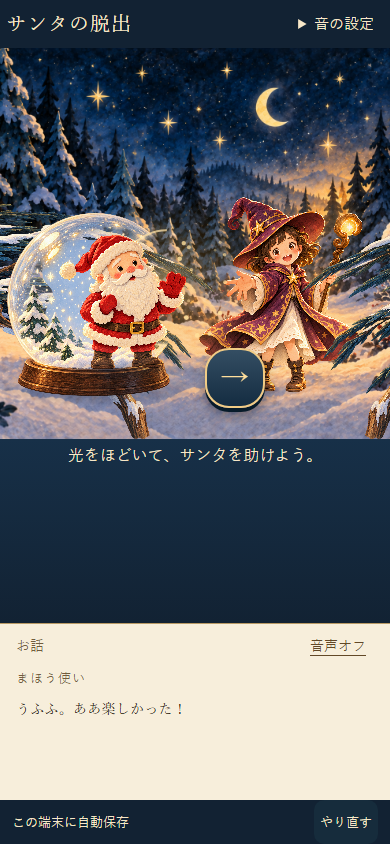
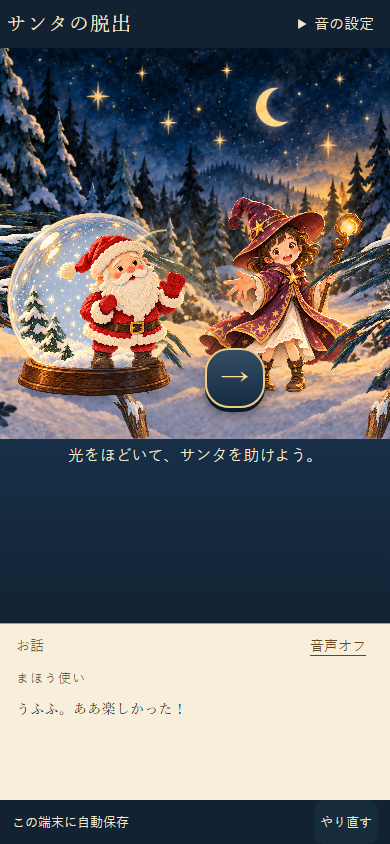
fix: use edited empty globe and brighten rescue magic

Changed region(s): [[0.0, 0.2464, 0.3692, 0.4621], [0.3077, 0.4313, 0.4308, 0.4621], [0.2769, 0.4005, 0.3077, 0.4313]]

diff --git a/prototype/rescue-art.js b/prototype/rescue-art.js
@@ -5,23 +5,10 @@ import { paintForestStage } from './forest-stage.js';
 import { smooth, clamp } from './witch-math.js';
 import { makeLayout, rescue } from './rescue-math.js';
 let rescuePromise;
-const loadRescueArt=()=>rescuePromise ||= Promise.all(['empty-globe','santa'].map(name=>loadImage(new URL('./assets/rescue/'+name+'.png',import.meta.url).href)));
+const loadRescueArt=()=>rescuePromise ||= Promise.all(['empty-globe-original-v2','santa'].map(name=>loadImage(new URL('./assets/rescue/'+name+'.png',import.meta.url).href)));
 export function createRescueArt(canvas,onLayout,onError) {
   const ctx=canvas.getContext('2d',{alpha:false}),plate=document.createElement('canvas'),brush=plate.getContext('2d');
-  const assets={};if(getForestArt())[assets.forest,assets.original]=getForestArt();if(getWitchArt())[assets.branch,assets.wizard]=getWitchArt();let disposed=false,view,layout,emptyGlobe,pulse=0;
-function composeEmptyGlobe(){
-  if(emptyGlobe||!assets.original||!assets.globe)return;
-  // Preserve the original glass, rim, trees and wooden base. Replace only the
-  // flattened Santa's interior region with the existing empty-globe material.
-  const w=assets.original.width,h=assets.original.height,patch=document.createElement('canvas'),mask=document.createElement('canvas');
-  emptyGlobe=document.createElement('canvas');for(const c of [emptyGlobe,patch,mask]){c.width=w;c.height=h;}
-  const m=mask.getContext('2d');m.scale(w,h);m.fillStyle='white';m.shadowColor='white';m.shadowBlur=6;m.beginPath();
-  m.moveTo(.38,.15);m.bezierCurveTo(.27,.14,.18,.26,.21,.36);m.bezierCurveTo(.24,.41,.28,.42,.26,.47);
-  m.bezierCurveTo(.19,.54,.22,.67,.32,.70);m.lineTo(.33,.82);m.bezierCurveTo(.44,.86,.66,.86,.77,.82);
-  m.lineTo(.78,.67);m.bezierCurveTo(.90,.61,.90,.37,.81,.32);m.bezierCurveTo(.76,.24,.66,.14,.56,.15);m.closePath();m.fill();
-  const p=patch.getContext('2d');p.drawImage(assets.globe,0,0,w,h);p.globalCompositeOperation='destination-in';p.drawImage(mask,0,0);
-  const out=emptyGlobe.getContext('2d');out.drawImage(assets.original,0,0);out.drawImage(patch,0,0);
-}
+  const assets={};if(getForestArt())[assets.forest,assets.original]=getForestArt();if(getWitchArt())[assets.branch,assets.wizard]=getWitchArt();let disposed=false,view,layout,pulse=0;
 function groundShadow(x, y, w, opacity) {
   ctx.save(); ctx.translate(x, y); ctx.scale(1, .18); ctx.globalAlpha = opacity;
   const gradient = ctx.createRadialGradient(0, 0, 0, 0, 0, w);
@@ -31,7 +18,7 @@ function groundShadow(x, y, w, opacity) {
 
 function globe(state) {
   const b = layout.globe;
-  const image=emptyGlobe||assets.globe;
+  const image=assets.globe;
   groundShadow(b.x + b.w * .52, b.y + b.h * .96, b.w * .60, .60);
   // The local aperture erases only the right side of the globe; its base stays in place.
   plate.width = image.width; plate.height = image.height;
@@ -67,7 +54,7 @@ function santa(state) {
 
 function glassFront(state) {
   const b = layout.globe, c = layout.circle;
-  const image=emptyGlobe||assets.globe;
+  const image=assets.globe;
   ctx.save(); ctx.globalAlpha = state.front;
   // Foreground snow covers the initial boots; it fades continuously before the boundary is crossed.
   ctx.drawImage(image, 0, image.height * .735, image.width, image.height * .10,
@@ -102,13 +89,33 @@ function magic(state) {
   ctx.restore();
 }
 
+function introGlow() {
+  const c=layout.circle;
+  ctx.save();ctx.translate(c.cx,c.cy);ctx.scale(1,c.ry/c.rx);ctx.globalCompositeOperation='screen';
+  // A single bright white-gold bloom across the whole globe, with a luminous rim.
+  const radius=c.rx*(1.55+pulse*.15),bloom=ctx.createRadialGradient(0,0,0,0,0,radius);
+  bloom.addColorStop(0,`rgba(255,250,220,${pulse})`);bloom.addColorStop(.5,`rgba(255,221,140,${pulse*.85})`);
+  bloom.addColorStop(.7,`rgba(255,191,75,${pulse*.65})`);bloom.addColorStop(1,'rgba(255,180,55,0)');
+  ctx.fillStyle=bloom;ctx.fillRect(-radius,-radius,radius*2,radius*2);
+  ctx.fillStyle=`rgba(255,252,230,${pulse*.92})`;ctx.beginPath();ctx.arc(0,0,c.rx,0,Math.PI*2);ctx.fill();
+  ctx.strokeStyle=`rgba(255,244,182,${pulse})`;ctx.lineWidth=Math.max(2,c.rx*.025);ctx.shadowColor='#ffc454';ctx.shadowBlur=c.rx*.22;
+  ctx.beginPath();ctx.arc(0,0,c.rx*(1.02+pulse*.04),0,Math.PI*2);ctx.stroke();
+  ctx.fillStyle=`rgba(255,251,214,${pulse})`;
+  for(let i=0;i<12;i++){
+    const angle=i*Math.PI/6+.14,r=c.rx*(1.13+(i%3)*.07+pulse*.08),x=Math.cos(angle)*r,y=Math.sin(angle)*r;
+    const size=c.rx*(i%2?.028:.047)*pulse;
+    ctx.beginPath();ctx.moveTo(x,y-size);ctx.lineTo(x+size*.25,y-size*.25);ctx.lineTo(x+size,y);ctx.lineTo(x+size*.25,y+size*.25);
+    ctx.lineTo(x,y+size);ctx.lineTo(x-size*.25,y+size*.25);ctx.lineTo(x-size,y);ctx.lineTo(x-size*.25,y-size*.25);ctx.closePath();ctx.fill();
+  }
+  ctx.restore();
+}
+
   function paint() {
     if(disposed)return;const width=canvas.clientWidth,height=canvas.clientHeight,dpr=Math.min(devicePixelRatio||1,2);if(!width||!height)return;
     canvas.width=Math.round(width*dpr);canvas.height=Math.round(height*dpr);ctx.setTransform(dpr,0,0,dpr,0,0);ctx.fillStyle='#10233b';ctx.fillRect(0,0,width,height);
     layout=makeLayout(width,height,{globe:assets.original?assets.original.width/assets.original.height:.946277097078228,santa:assets.santa?assets.santa.width/assets.santa.height:.9441489361702128,wizard:assets.wizard?assets.wizard.width/assets.wizard.height:.8373134328358209});
     const progress=view?.rescueMotion?.progress??1,state=rescue(progress,layout),b=layout.globe,c=layout.circle;
     paintForestStage(ctx,layout,assets);
-    composeEmptyGlobe();
     const originalOnly=progress===0 && assets.original;
     if(originalOnly)ctx.drawImage(assets.original,b.x,b.y,b.w,b.h);
     else if(assets.globe)globe(state);
@@ -117,17 +124,14 @@ function magic(state) {
     if(!originalOnly && assets.santa)santa(state);
     else if(!originalOnly){const s=state.santa;ctx.font=s.h*.6+'px sans-serif';ctx.textAlign='center';ctx.textBaseline='bottom';ctx.fillText('🎅',s.cx,s.foot);}
     if(!originalOnly && assets.globe)glassFront(state);
-    if(pulse){
-      glow(ctx,c.cx,c.cy,c.rx*1.3,pulse*.9,c.ry/c.rx);
-      ctx.save();ctx.globalCompositeOperation='screen';ctx.fillStyle=`rgba(255,233,176,${pulse*.38})`;ctx.beginPath();ctx.ellipse(c.cx,c.cy,c.rx,c.ry,0,0,Math.PI*2);ctx.fill();ctx.restore();
-    }
+    if(pulse)introGlow();
     // The grip moves right by exactly the captured finger distance. Keep it
     // below the character, rather than sending it left around the rim.
     const handleStart=c.cx+c.rx*.93;
     layout.dragDistance=Math.min(layout.dragDistance,width-30-handleStart);
     layout.handle={x:handleStart+layout.dragDistance*progress,y:clamp(b.y+b.h*.90,30,height-30)};
     onLayout(layout);
-    Object.assign(canvas.dataset,{progress:String(progress),glowPulse:String(pulse),globeSource:originalOnly?'original':emptyGlobe?'original-frame':'fallback',santaContained:String(progress===0),santaOutside:String(progress===1),santaCount:'1',dragDistance:String(layout.dragDistance),globe:JSON.stringify(layout.globe),wizard:JSON.stringify(layout.wizard),santa:JSON.stringify(state.santa),circle:JSON.stringify(layout.circle)});
+    Object.assign(canvas.dataset,{progress:String(progress),glowPulse:String(pulse),globeSource:originalOnly?'original':assets.globe?'edited-empty':'fallback',santaContained:String(progress===0),santaOutside:String(progress===1),santaCount:'1',dragDistance:String(layout.dragDistance),globe:JSON.stringify(layout.globe),wizard:JSON.stringify(layout.wizard),santa:JSON.stringify(state.santa),circle:JSON.stringify(layout.circle)});
     canvas.setAttribute('aria-label',progress===1?'雪の森。空の球の外にサンタとまほう使い':progress===0?'雪の森。サンタは球の中、右にまほう使い':'雪の森。光の開口からサンタが外へ移っています');
   }
   const observer=new ResizeObserver(paint);observer.observe(canvas);paint();

diff --git a/tests/browser/rescue-glow.spec.js b/tests/browser/rescue-glow.spec.js
@@ -15,11 +15,11 @@ async function thirdResponse(page){
 }
 async function samples(page){return page.locator('canvas').evaluate(c=>{const g=JSON.parse(c.dataset.globe),d=c.width/c.clientWidth,ctx=c.getContext('2d');return [[.13,.3],[.4,.94],[.4,.07]].map(([x,y])=>Array.from(ctx.getImageData(Math.round((g.x+g.w*x)*d),Math.round((g.y+g.h*y)*d),3,3).data));});}
 
-test('rescue glow: one soft pulse precedes the grip; original glass/base remain after release and resume skips the introduction',async({page},testInfo)=>{
+test('rescue glow: one bright pulse precedes the grip; edited glass/base remain during release and resume skips the introduction',async({page},testInfo)=>{
   await page.setViewportSize({width:390,height:844});await thirdResponse(page);await expect.poll(()=>page.evaluate(()=>window.introStates)).toContainEqual({intro:'glowing',hidden:true});
   await expect.poll(()=>page.evaluate(()=>Math.max(...window.pulses))).toBeGreaterThan(.7);const artifact=testInfo.outputPath('rescue-glow.png');await mkdir(dirname(artifact),{recursive:true});await writeFile(artifact,Buffer.from((await page.evaluate(()=>window.glowFrame)).split(',')[1],'base64'));
   await expect(light(page)).toBeVisible();await expect(page.locator('.rescue-stage')).toHaveAttribute('data-intro','ready');expect(await page.evaluate(()=>window.introStates)).toEqual([{intro:'glowing',hidden:true},{intro:'ready',hidden:false}]);expect(Math.max(...await page.evaluate(()=>window.pulses))).toBeGreaterThan(.6);expect((await saved(page)).rescueMotion.progress).toBe(0);
-  const before=await samples(page);await page.reload();await btn(page,'resume').click();await expect(light(page)).toBeVisible();await expect(page.locator('canvas')).toHaveAttribute('data-ready','true');await expect(page.locator('.rescue-stage')).toHaveAttribute('data-intro','ready');await expect(page.locator('canvas')).toHaveAttribute('data-glow-pulse','0');
+  await expect(page.locator('canvas')).toHaveAttribute('data-globe-source','original');await light(page).press('ArrowRight');await expect(page.locator('canvas')).toHaveAttribute('data-globe-source','edited-empty');const before=await samples(page);await page.reload();await btn(page,'resume').click();await expect(light(page)).toBeVisible();await expect(page.locator('canvas')).toHaveAttribute('data-ready','true');await expect(page.locator('.rescue-stage')).toHaveAttribute('data-intro','ready');await expect(page.locator('canvas')).toHaveAttribute('data-glow-pulse','0');await expect(page.locator('canvas')).toHaveAttribute('data-globe-source','edited-empty');
   await light(page).press('End');await expect(page.locator('.rescue-stage')).toHaveAttribute('data-phase','complete');await expect(btn(page,'finish')).toHaveCount(0);const after=await samples(page);for(let i=0;i<before.length;i++)for(let j=0;j<before[i].length;j++)expect(Math.abs(before[i][j]-after[i][j])).toBeLessThanOrEqual(2);
 });
 test('rescue glow: reduced motion immediately reveals the grip, with no timed completion or pulse',async({page})=>{

diff --git a/prototype/rescue-stage.js b/prototype/rescue-stage.js
@@ -33,7 +33,7 @@ export function createRescueStage({getState,onProgress,intro=false}) {
   },options);
   const art=createRescueArt(find('canvas'),value=>{if(drag&&(value.width!==drag.width||value.height!==drag.height))finish();layout=value;handle.style.left=`${value.handle.x}px`;handle.style.top=`${value.handle.y}px`;},()=>{find('.rescue-art-error').hidden=false;});
   // One short presentation pulse on entry only, independent of voice/art fetches.
-  if(introPending){let started;const tick=time=>{if(disposed||!introPending)return;started??=time;const t=Math.min(1,(time-started)/850);art.setGlow(Math.sin(Math.PI*t)**2);if(t===1)finishIntro();else introFrame=requestAnimationFrame(tick);};introFrame=requestAnimationFrame(tick);}
+  if(introPending){let started;const tick=time=>{if(disposed||!introPending)return;started??=time;const t=Math.min(1,(time-started)/1100);art.setGlow(Math.sin(Math.PI*t)**2);if(t===1)finishIntro();else introFrame=requestAnimationFrame(tick);};introFrame=requestAnimationFrame(tick);}
   return {element,ready:art.ready,setStatus:status=>captions.setStatus(status),
     update(view,{settings,dialogue,status,saved,reading=false,navigation=''}) {
       const complete=view.phase==='complete',released=view.rescueMotion?.released!==false;

diff --git a/docs/PR-E-RESCUE.md b/docs/PR-E-RESCUE.md
@@ -6,9 +6,9 @@
 
 最初のコミットe4048a3でDの森・球・まほう使い・枝の配置と描画だけをforest-stageへ抽出。Dの66通常検査と枝案内→登場音→第1問のChromium回帰で基準線を確認。その後、rescue-stageは操作DOM、rescue-art / rescue-mathは単一サンタと開口の描画、rescue-presentationは既存の台詞と発話区間の接続を担当。状態と回答履歴の正本はfull-game、原文はfull-scenario、保存は従来の同じキーです。箱・紙・会話controller、journey/store、別の状態ストア・frameworkは複製しません。
 
-三問目の返答は明示的な「サンタのもとへ」まで保持。新しいrescueへ入ると先頭の「うふふ。ああ楽しかった！」を表示・再生。球全体が約0.85秒で一度ふわっと光った後に、光のつまみを提示します。杖からの細い線は削除。演出は最初の救出への移動時だけで、保存再開・読み返しでは繰り返さず、低減モーションでは省略。演出の時間で救出や回答は進めません。右へ引いた指と同じ距離だけつまみが右へ移り、開口・サンタの移動、倍率と局所変形を共通の進捗へ接続。途中は停止・逆方向・中断でき、タップ / Enter / Spaceで一段階、左右キーで調整、Homeで開始位置、Endで完了。Escapeはその場でドラッグを中断。完了値1で解放とcomplete保存を同時に確定し、逆操作で回答や取得紙を巻き戻しません。スライダー・百分率・自由こすり・追加の正解条件・音声入力・家族儀式はありません。
+三問目の返答は明示的な「サンタのもとへ」まで保持。新しいrescueへ入ると先頭の「うふふ。ああ楽しかった！」を表示・再生。球全体が約1.1秒で一度白金色に強く光り、金色の光輪ときらめきが周囲へ広がった後に、光のつまみを提示します。杖からの細い線は削除。演出は最初の救出への移動時だけで、保存再開・読み返しでは繰り返さず、低減モーションでは省略。演出の時間で救出や回答は進めません。右へ引いた指と同じ距離だけつまみが右へ移り、開口・サンタの移動、倍率と局所変形を共通の進捗へ接続。途中は停止・逆方向・中断でき、タップ / Enter / Spaceで一段階、左右キーで調整、Homeで開始位置、Endで完了。Escapeはその場でドラッグを中断。完了値1で解放とcomplete保存を同時に確定し、逆操作で回答や取得紙を巻き戻しません。スライダー・百分率・自由こすり・追加の正解条件・音声入力・家族儀式はありません。
 
-森・球・まほう使い・開いた枝のカメラはDと共通。進捗0ではこれまでと同じ人物入りの球をそのまま描き、動き始めたら元の球の輪郭・反射・台座を保ち、サンタがいた内側だけ既存の空の球で補ったものと単一の不透明サンタを使います。人物入りの球と独立サンタを重ねません。元画像ファイルの変更や新規生成はありません。既存の球のサンタと独立素材は別の生成画像で細部の完全一致は保証しません。球の位置・倍率、顔の向き・手の姿勢の連続性と開始/途中/解放後の絵を実際にレビュー済みです。足と服の変形は試作由来で、自然な歩行の完成を主張しません。
+森・球・まほう使い・開いた枝のカメラはDと共通。進捗0ではこれまでと同じ人物入りの球をそのまま描き、動き始めたら、元の球からサンタを消すためにImageで編集した空の球と単一の不透明サンタを使います。サンタ周囲に別の青い空を部分合成するマスクは削除。人物入りの球と独立サンタを重ねません。元画像は変更せず、編集画像を別ファイルとして保存しています。ガラス・木・雪・台座の構成を保っていますが、編集生成による画素や色の差があり、元画像との完全一致は主張しません。既存の球のサンタと独立素材も別の生成画像で細部の完全一致は保証しません。球の位置・倍率と開始/途中/解放後・発光中の絵を実際にレビュー済みです。足と服の変形は試作由来で、自然な歩行の完成を主張しません。
 
 ## 音声・結末
 
@@ -28,13 +28,13 @@
 
 ## 素材と配信
 
-PR #1固定aead6e9b69c7c1c264d9730a1bc1737fd0a73b7cからempty-globe.pngとsanta.pngを無加工で再利用。出典・サイズ・SHA-256・git showした参照コミットとのバイト一致は[記録](pr-e/art-provenance.json)。森・元の球・枝・修正済みまほう使いはC/Dのファイルを共有。新しい画像・音声・効果音・BGMの生成なし。NOTICEを更新し、未解決の音声利用条件は本番公開前の確認事項として残します。
+PR #1固定aead6e9b69c7c1c264d9730a1bc1737fd0a73b7cからsanta.pngを無加工で再利用し、旧empty-globe.pngは未変更の参照として保持。空の球はユーザーが明示依頼した `empty-globe-original-v2.png` へ変更。組み込みImage編集の正確なプロンプト、元画像/編集画像のサイズ・SHA-256とPR #1の再利用素材のバイト一致は[記録](pr-e/art-provenance.json)。透過alphaを確認。森・元の球・枝・修正済みまほう使いはC/Dのファイルを共有。新しい音声・効果音・BGMの生成なし。NOTICEを更新し、未解決の音声利用条件は本番公開前の確認事項として残します。
 
 rescue-filesの許可リストを開発サーバー、Pagesビルド、ローカル/配信検査へ接続。制作記録・QA・テスト・非公開原本は配信しません。固定とブランチの全配布物を照合し、テキストはCRLF/LFだけ正規化、バイナリはバイト一致で確認します。
 
 ## 検査・配信結果
 
-通常検査は74件中72成功、非公開原本照合だけ2スキップ。設計の2592経路・353838確認、既存音声、配信許可リスト、Pagesビルド、ローカル配信と差分の検査を実施。救出操作・音声の専用検査では、部分保存・逆操作・中断、旧保存・読み返し、速い解放での自動完了、球の初回発光と中断・低減モーション、元の球の外観維持、実Web Audioの順序と取消、遅い取得を確認しました。箱・紙・Dの枝音声の回帰を含む最新headの全Chromium検査、GitHub verify / browser、Cloudflare Pagesと実配信比較の最終結果・URLはPR本文に記録します。
+通常検査は74件中72成功、非公開原本照合だけ2スキップ。設計の2592経路・353838確認、既存音声、配信許可リスト、Pagesビルド、ローカル配信と差分の検査を実施。今回の編集ではローカルChromiumの救出/発光14件が標準の1 workerで一度に成功。部分保存・逆操作・中断、旧保存・読み返し、球の初回発光と中断・低減モーション、編集した球の使用と解放中のガラス/台座の保持を確認しました。箱・紙・Dの枝音声の回帰と実Web Audioの順序/取消を含む最新headの全100件Chromium検査、GitHub verify / browser、Cloudflare Pagesと実配信比較の最終結果・URLはPR本文に記録します。
 
 320×568、390×844、568×320、844×390、768×1024、1024×768、1280×720で操作点60px、主要ボタン44px以上、字幕の内部スクロール・フォーカス・横はみ出し・低減モーションと人物の幾何を確認。[初回の発光（描画区画）](pr-e/rescue-glow.png)、[開始](pr-e/rescue-390x844-0.png)、[途中](pr-e/rescue-390x844-0.5.png)、[解放後](pr-e/rescue-390x844-1.png)、[横長の解放後](pr-e/rescue-1280x720-1.png)を保存しました。タッチはChromiumのエミュレーションです。
 
